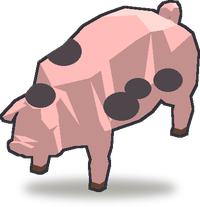
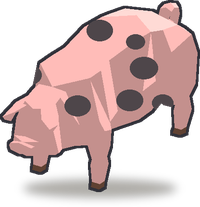
Поставить вьетнамскую вислобрюхую
Из двух присланных вариантов взят тот, где толще контур и видны копыта, уши и
пятак: в размере двора у первого пятак терялся, оставалось тёмное пятно с
розовым брюхом, да и тонкая ровная обводка выбивалась из ряда птиц.

Claude-Session: https://claude.ai/code/session_013ovumMuRfj2SmgMR5kzGwz

diff --git a/docs/ART-TODO.md b/docs/ART-TODO.md
@@ -29,7 +29,7 @@ python3 tools/import-art.py картинка.png <id>
 
 ## Список
 
-Всего животных 19, готовы 12 — курятник и гусятник целиком; одна из кур временная.
+Всего животных 19, готовы 13; одна из кур временная.
 
 | Готово | Файл | Порода | Постройка | Уровень | Как выглядит |
 |:---:|---|---|---|:---:|---|
@@ -39,7 +39,7 @@ python3 tools/import-art.py картинка.png <id>
 | ✅ | `breed-tula.png` | Тульский бойцовый | Гусятник | 4 | Серый гусь |
 | ✅ | `breed-orlov.png` | Орловская ситцевая | Курятник | 4 | Пёстрая ситцевая, борода и баки |
 | ~ | `breed-pavlov.png` | Павловская | Курятник | 5 | Стоит временная: генератор не нарисовал ни хохла, ни мохнатых ног, и вышла третья белая птица |
-|  | `breed-vietnam.png` | Вьетнамская вислобрюхая | Свинарник | 5 | Чёрная свинья, брюхо до земли |
+| ✅ | `breed-vietnam.png` | Вьетнамская вислобрюхая | Свинарник | 5 | Чёрная свинья, брюхо до земли |
 | ✅ | `breed-kuchin.png` | Кучинская юбилейная | Курятник | 6 | Рыже-бурая, золотая шея |
 | ✅ | `breed-holmgus.png` | Холмогорский гусь | Гусятник | 7 | Белый гусь, шишка на клюве |
 | ✅ | `breed-kitay.png` | Китайский | Гусятник | 5 | Бурый, лебединая шея, шишка на лбу |
